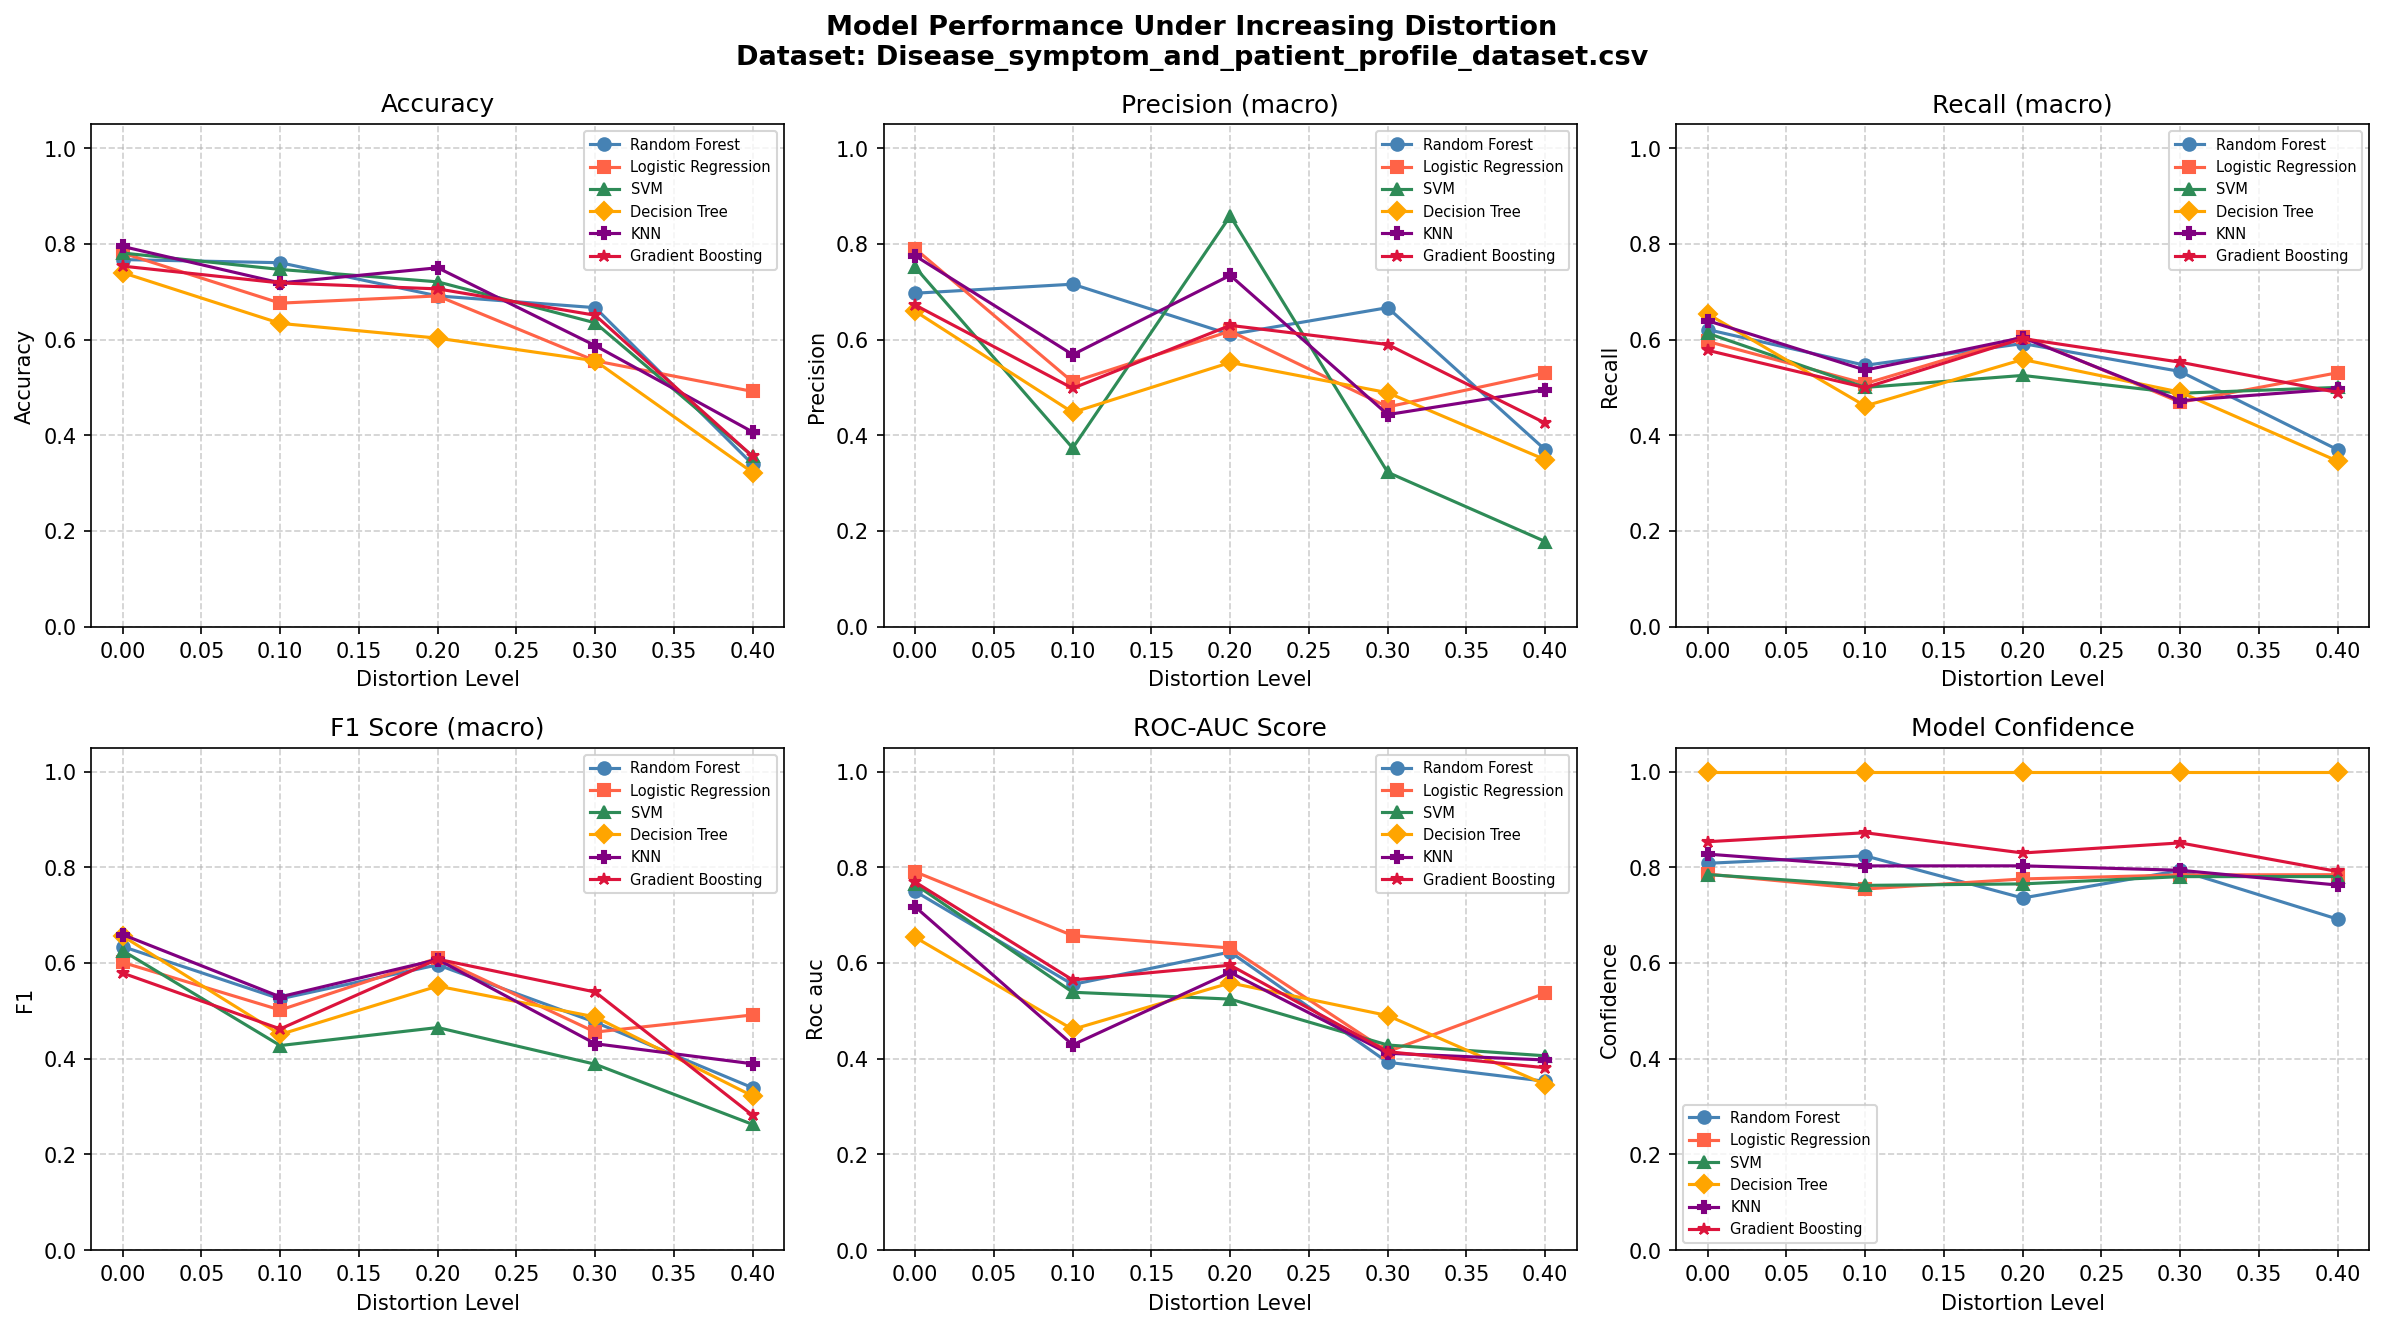
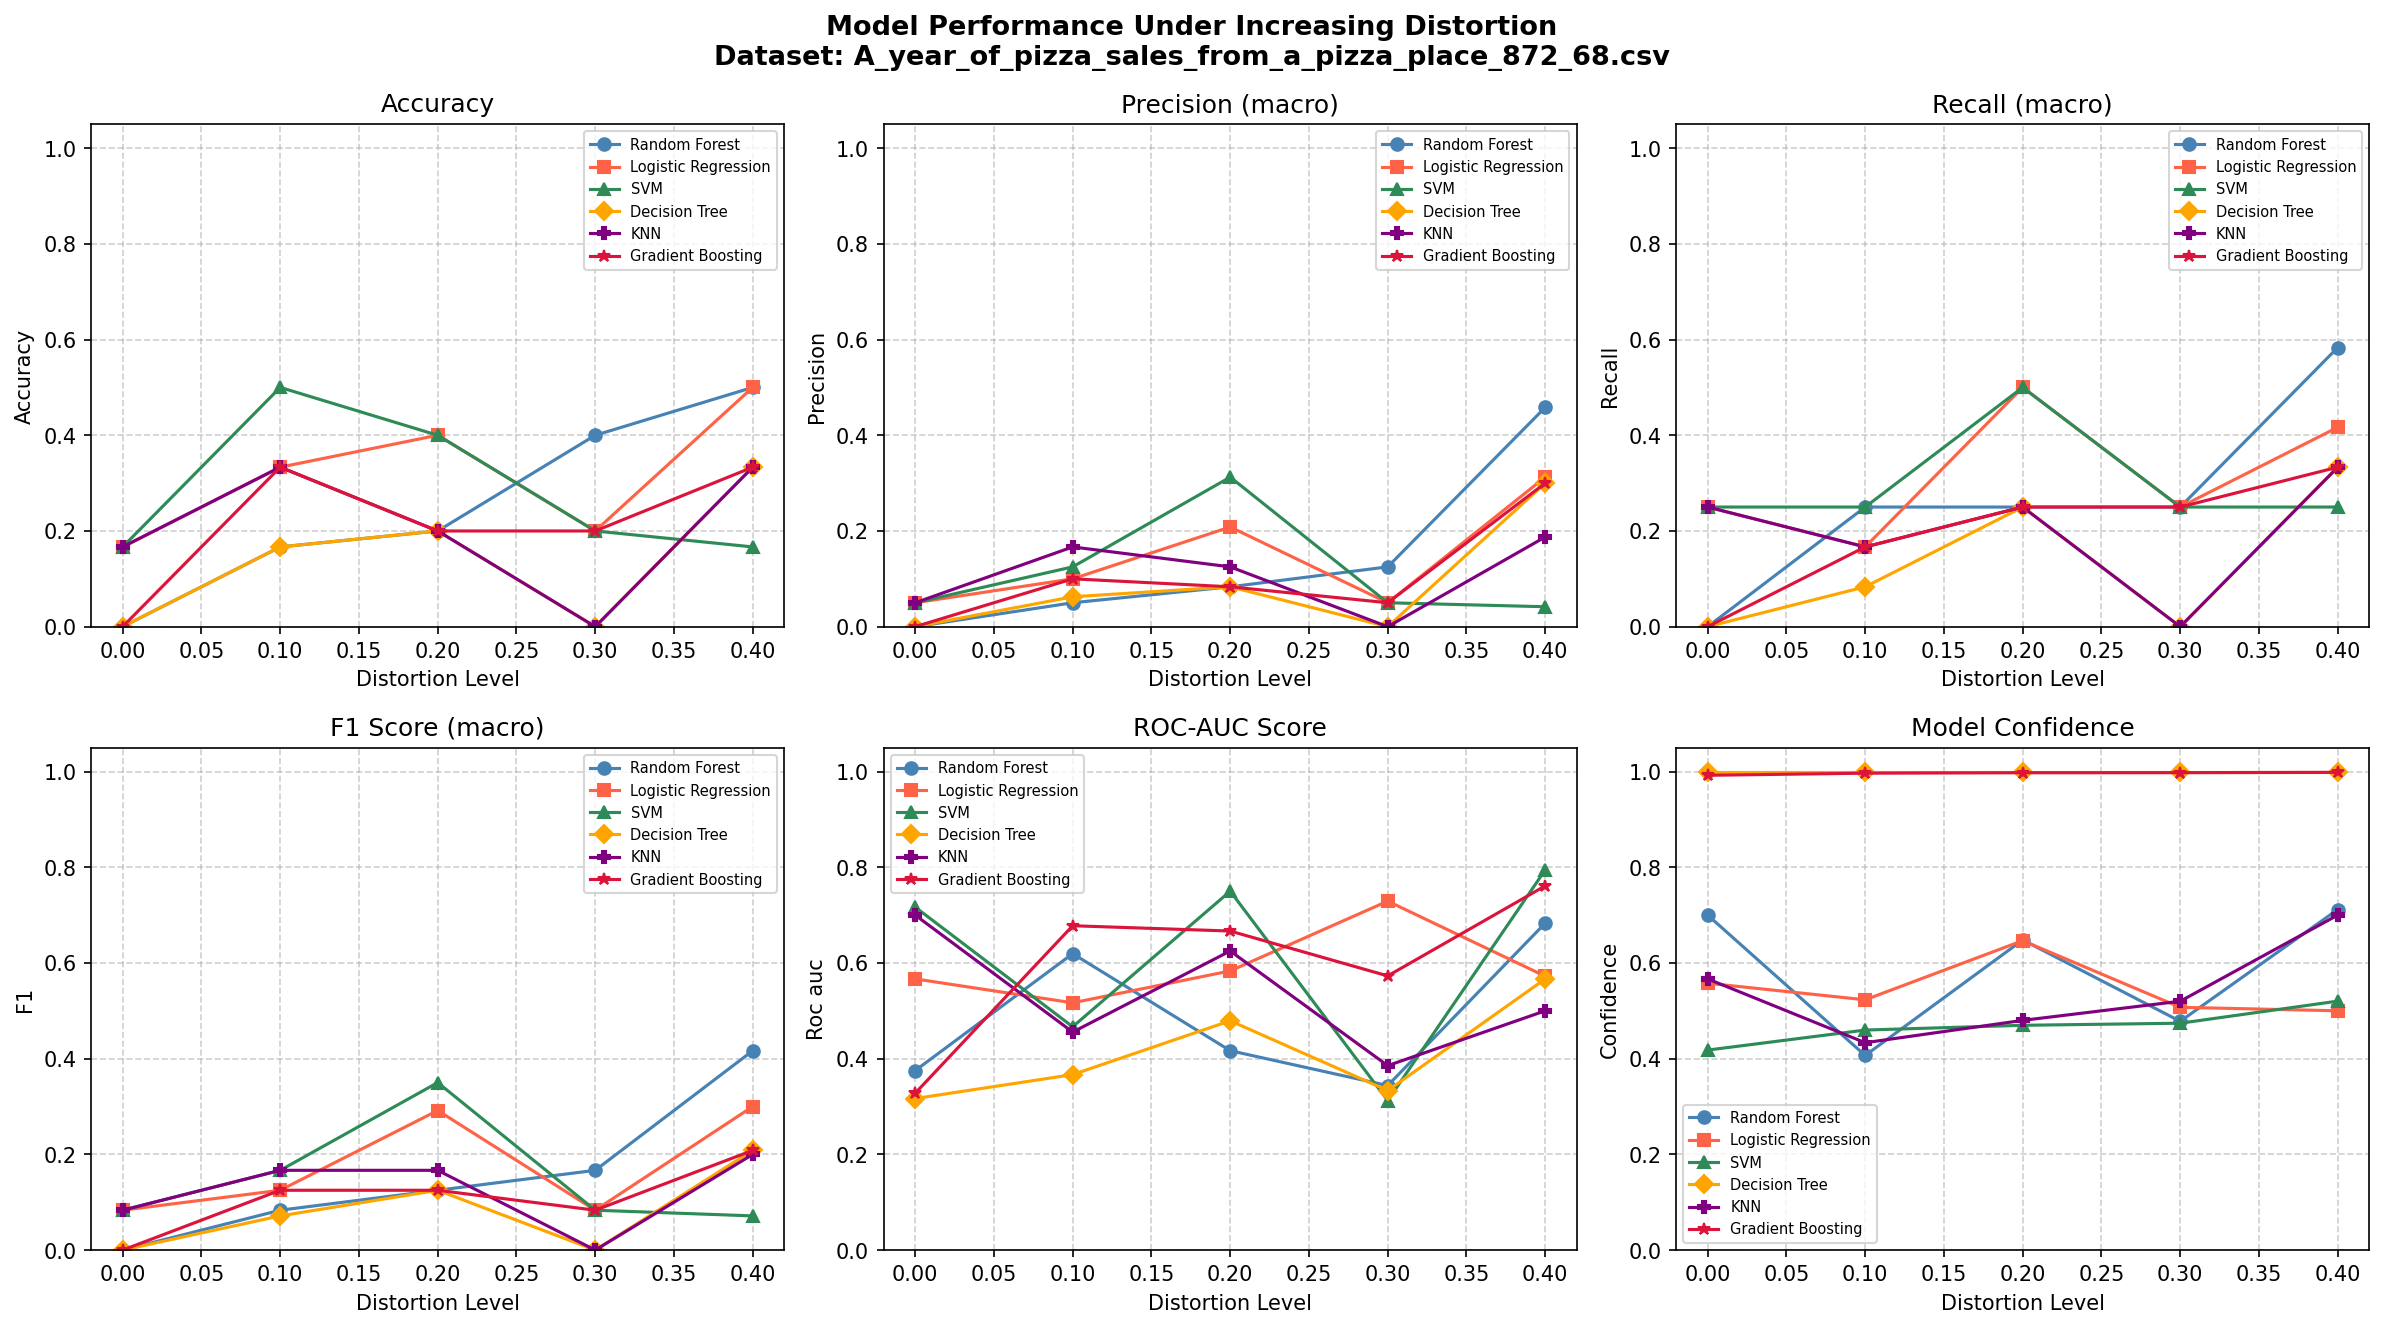
Add per-distortion chart to README and root folder

diff --git a/run_logger.py b/run_logger.py
@@ -18,7 +18,11 @@ def _next_run_id():
     return len(existing) + 1
 
 
-def save_run(ds_name, settings, distortions_used, levels, rf_results, lr_results, svm_results, fig):
+def save_run(
+    ds_name, settings, distortions_used,
+    levels, rf_results, lr_results, svm_results,
+    fig, fig_analysis=None, analysis_df=None
+):
     """Save a simulation run to results/run_NNN/ folder."""
     run_id  = _next_run_id()
     run_dir = os.path.join(RESULTS_DIR, f"run_{run_id:03d}")
@@ -42,12 +46,21 @@ def save_run(ds_name, settings, distortions_used, levels, rf_results, lr_results
     with open(json_path, "w") as f:
         json.dump(payload, f, indent=2)
 
-    # Save chart for this run
+    # Save main chart
     png_path = os.path.join(run_dir, "results.png")
     fig.savefig(png_path, dpi=150, bbox_inches="tight")
-
-    # Also overwrite root results.png for README
     fig.savefig("results.png", dpi=150, bbox_inches="tight")
+
+    # Save per-distortion chart
+    if fig_analysis is not None:
+        analysis_png = os.path.join(run_dir, "per_distortion.png")
+        fig_analysis.savefig(analysis_png, dpi=150, bbox_inches="tight")
+        fig_analysis.savefig("per_distortion.png", dpi=150, bbox_inches="tight")
+
+    # Save per-distortion CSV if provided
+    if analysis_df is not None:
+        analysis_csv = os.path.join(run_dir, "per_distortion.csv")
+        analysis_df.to_csv(analysis_csv, index=False)
 
     return run_id, run_dir
 
@@ -62,12 +75,16 @@ def load_all_runs():
             continue
         json_file = os.path.join(run_dir, f"{d}.json")
         png_file  = os.path.join(run_dir, "results.png")
+        analysis_png = os.path.join(run_dir, "per_distortion.png")
+        analysis_csv = os.path.join(run_dir, "per_distortion.csv")
         if not os.path.exists(json_file):
             continue
         try:
             with open(json_file) as f:
                 data = json.load(f)
-            data["_png_path"] = png_file if os.path.exists(png_file) else None
+            data["_png_path"]          = png_file      if os.path.exists(png_file)      else None
+            data["_analysis_png_path"] = analysis_png  if os.path.exists(analysis_png)  else None
+            data["_analysis_csv_path"] = analysis_csv  if os.path.exists(analysis_csv)  else None
             runs.append(data)
         except Exception:
             pass

diff --git a/README.md b/README.md
@@ -4,6 +4,8 @@ Simulate how ML classification models degrade under real-world data distortions 
 
 ![results](results.png)
 
+![per_distortion](per_distortion.png)
+
 ## What it does
 
 Trains **Random Forest**, **Logistic Regression**, and **SVM** on clean data, then evaluates all three across increasing distortion levels. Tracks **6 metrics** at each level and produces a **2×3 comparison chart**.
